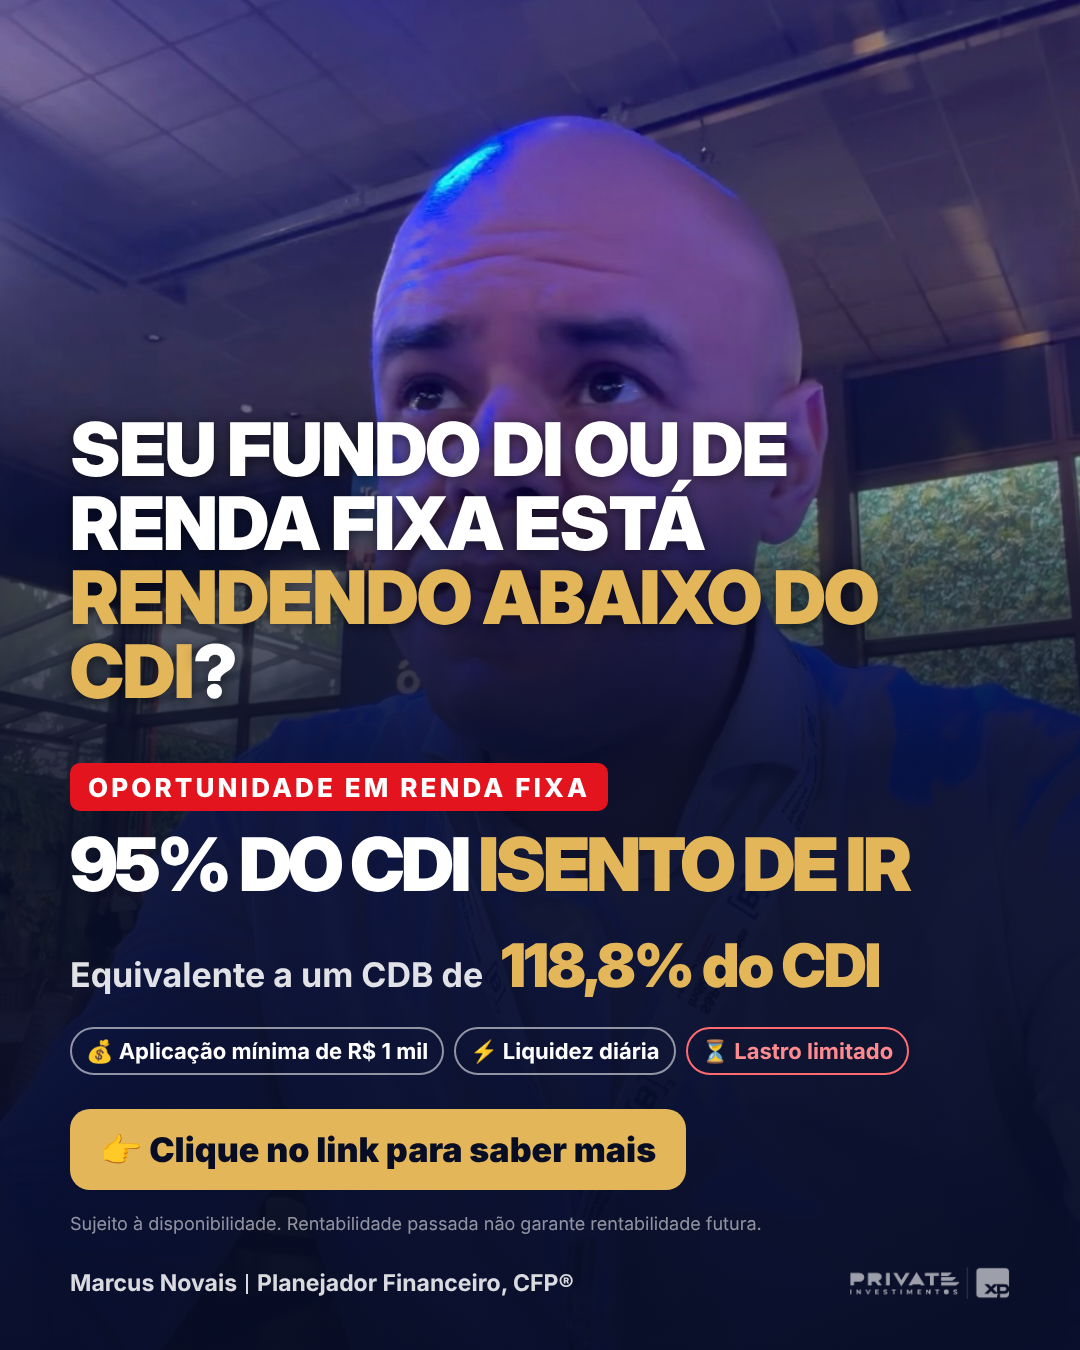
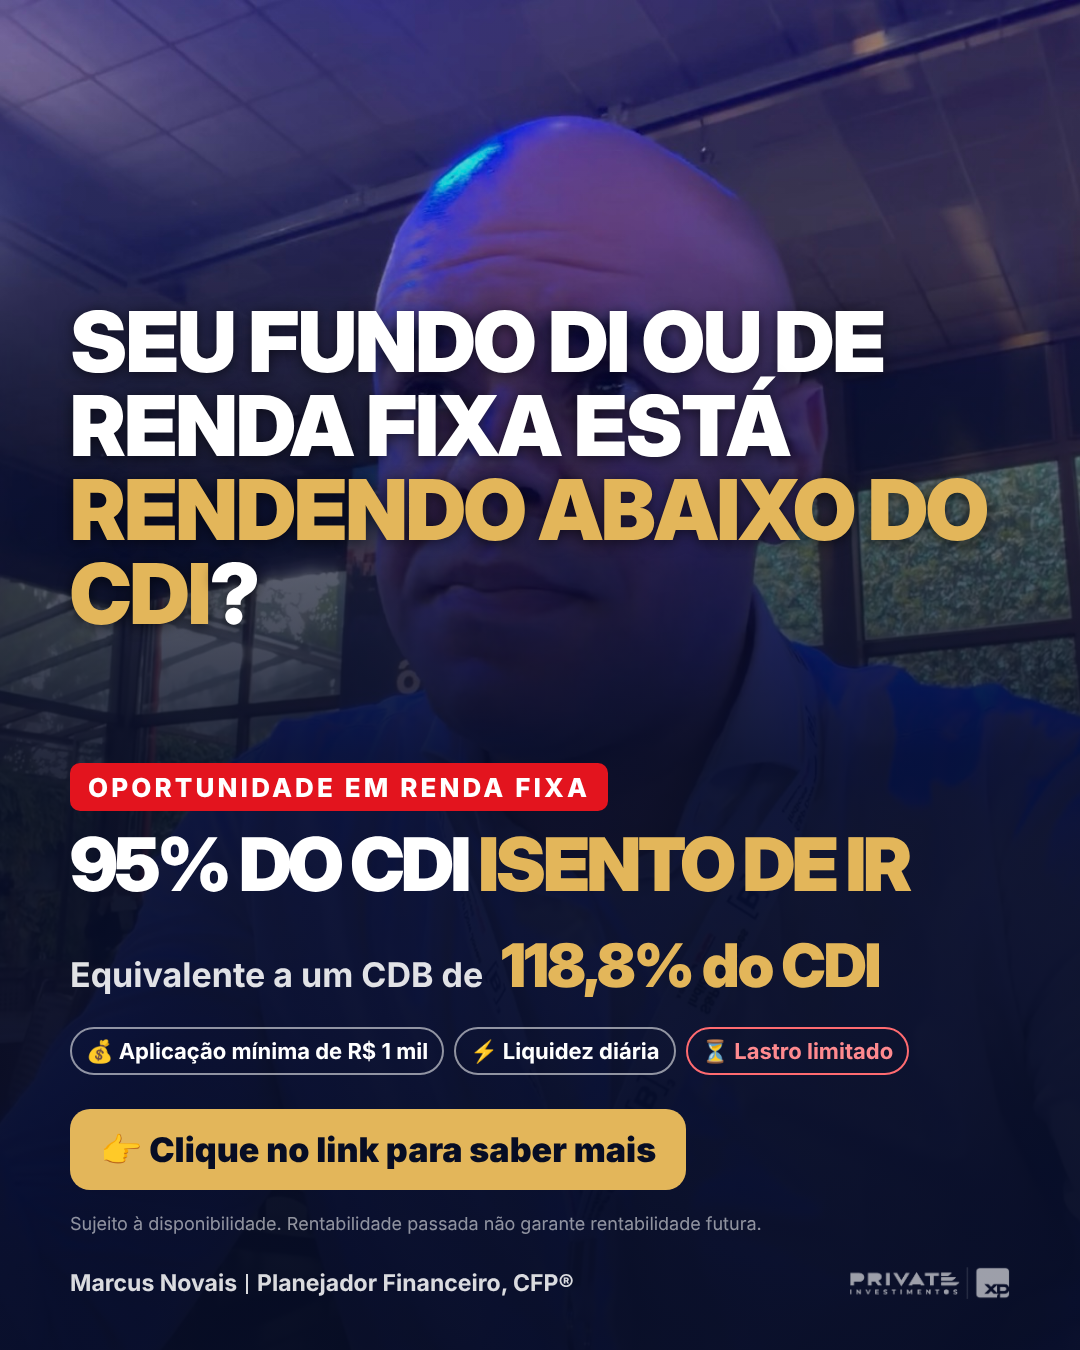
Post 95% CDI isento: título começando na altura da testa
Claude-Session: https://claude.ai/code/session_01JkBXj6tz5hpSkGAznkwYEm

Changed region(s): [[0.0611, 0.0933, 1.0, 0.5289], [0.9167, 0.2178, 0.9778, 0.28]]

diff --git a/post-isento-95cdi/post.html b/post-isento-95cdi/post.html
@@ -7,7 +7,7 @@
   .p.st { height:1920px; }
   body.single .p { display:none; } body.single .p.on { display:block; }
   .bg { position:absolute; inset:0; } .bg img { width:100%; height:100%; object-fit:cover; object-position:50% 22%; }
-  .sh { position:absolute; inset:0; background:linear-gradient(180deg, rgba(7,13,36,.15) 0%, rgba(7,13,36,0) 16%, rgba(7,13,36,.15) 24%, rgba(7,13,36,.55) 34%, rgba(7,13,36,.75) 48%, rgba(7,13,36,.9) 64%, rgba(7,13,36,.96) 100%); }
+  .sh { position:absolute; inset:0; background:linear-gradient(180deg, rgba(7,13,36,.15) 0%, rgba(7,13,36,.2) 14%, rgba(7,13,36,.5) 22%, rgba(7,13,36,.65) 40%, rgba(7,13,36,.8) 52%, rgba(7,13,36,.9) 64%, rgba(7,13,36,.96) 100%); }
   .top { position:absolute; left:70px; right:70px; }
   .hook { font-family:"Inter Display","Inter",sans-serif; font-weight:900; text-transform:uppercase; font-size:86px; line-height:1; letter-spacing:-.02em; text-shadow:0 2px 14px rgba(0,0,0,.6); }
   .hook em { font-style:normal; color:#e3b65a; }
@@ -26,8 +26,8 @@
   .foot { position:absolute; left:70px; right:70px; display:flex; justify-content:space-between; align-items:center; font-size:23px; font-weight:700; color:rgba(255,255,255,.85); }
   .foot span { display:inline-block; width:2px; height:20px; background:rgba(255,255,255,.85); margin:0 9px -3px; }
   .foot img { height:34px; opacity:.6; filter:brightness(0) invert(1); }
-  .p:not(.st) .hook { font-size:74px; }
-  .p:not(.st) .sh { background:linear-gradient(180deg, rgba(7,13,36,.1) 0%, rgba(7,13,36,0) 20%, rgba(7,13,36,.1) 30%, rgba(7,13,36,.6) 42%, rgba(7,13,36,.85) 56%, rgba(7,13,36,.95) 100%); }
+  .p:not(.st) .hook { font-size:84px; }
+  .p:not(.st) .sh { background:linear-gradient(180deg, rgba(7,13,36,.1) 0%, rgba(7,13,36,.2) 18%, rgba(7,13,36,.5) 28%, rgba(7,13,36,.7) 45%, rgba(7,13,36,.88) 56%, rgba(7,13,36,.95) 100%); }
 </style></head>
 <body>
 <script>
@@ -40,7 +40,7 @@ const body=(top,bot,foot)=>`<div class="bg"><img src="marcus.jpg"></div><div cla
   <div class="btn">👉 Clique no link para saber mais</div>
   <div class="fine">Sujeito à disponibilidade. Rentabilidade passada não garante rentabilidade futura.</div></div>
  <div class="foot" style="bottom:${foot}px"><div>Marcus Novais<span></span>Planejador Financeiro, CFP®</div><img src="logo-private-xp.png"></div>`;
-for (const [cls,top,bot,foot] of [['p',412,115,50],['p st',690,330,250]]) { const s=document.createElement('section'); s.className=cls; s.innerHTML=body(top,bot,foot); document.body.appendChild(s); }
+for (const [cls,top,bot,foot] of [['p',300,115,50],['p st',430,330,250]]) { const s=document.createElement('section'); s.className=cls; s.innerHTML=body(top,bot,foot); document.body.appendChild(s); }
 const all=[...document.querySelectorAll('.p')];
 window.show=i=>{document.body.classList.add('single');all.forEach((s,j)=>s.classList.toggle('on',j===i));};
 </script>
